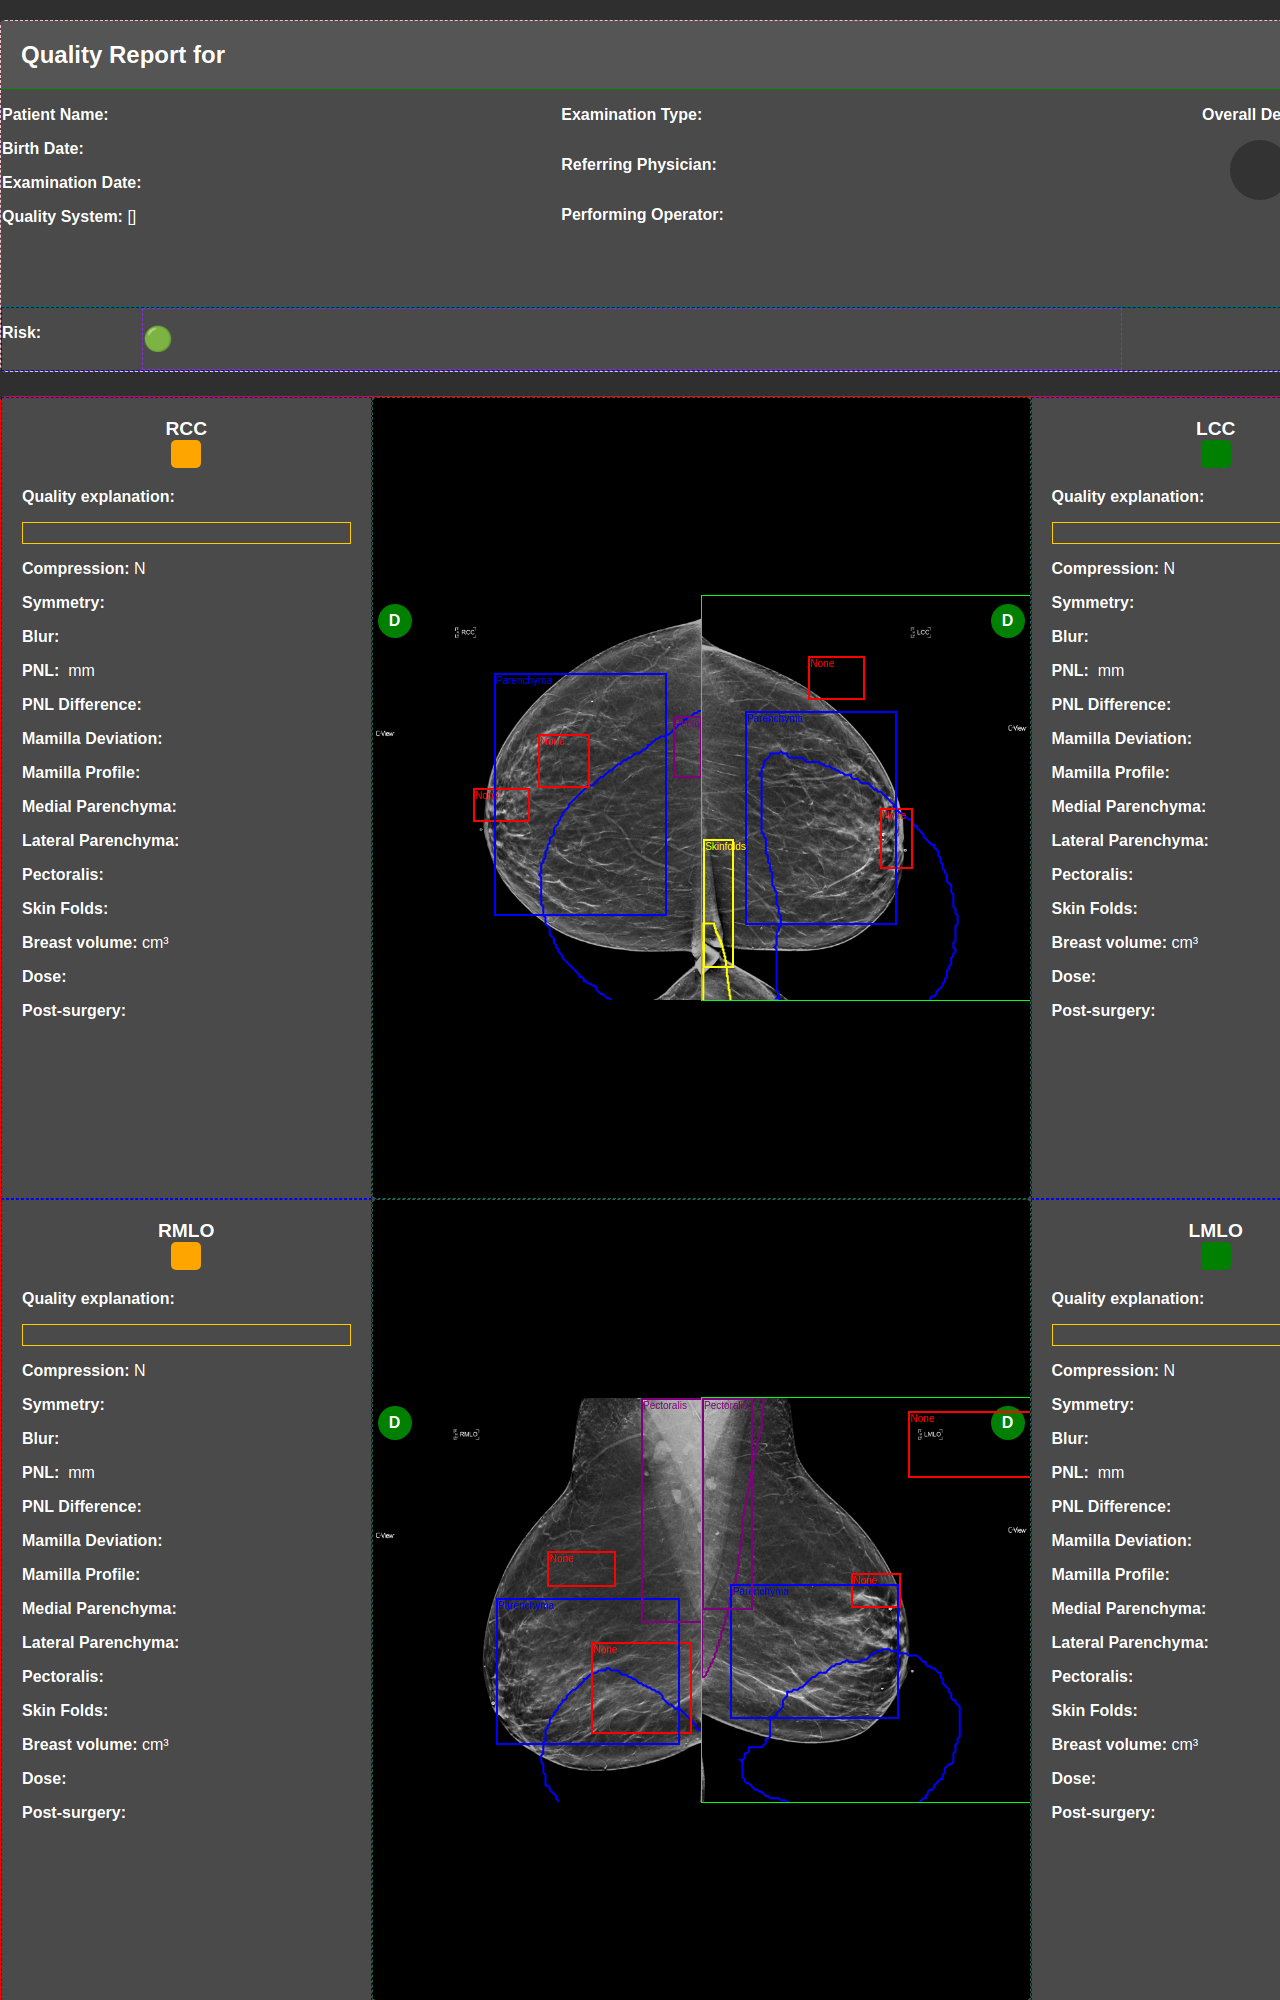
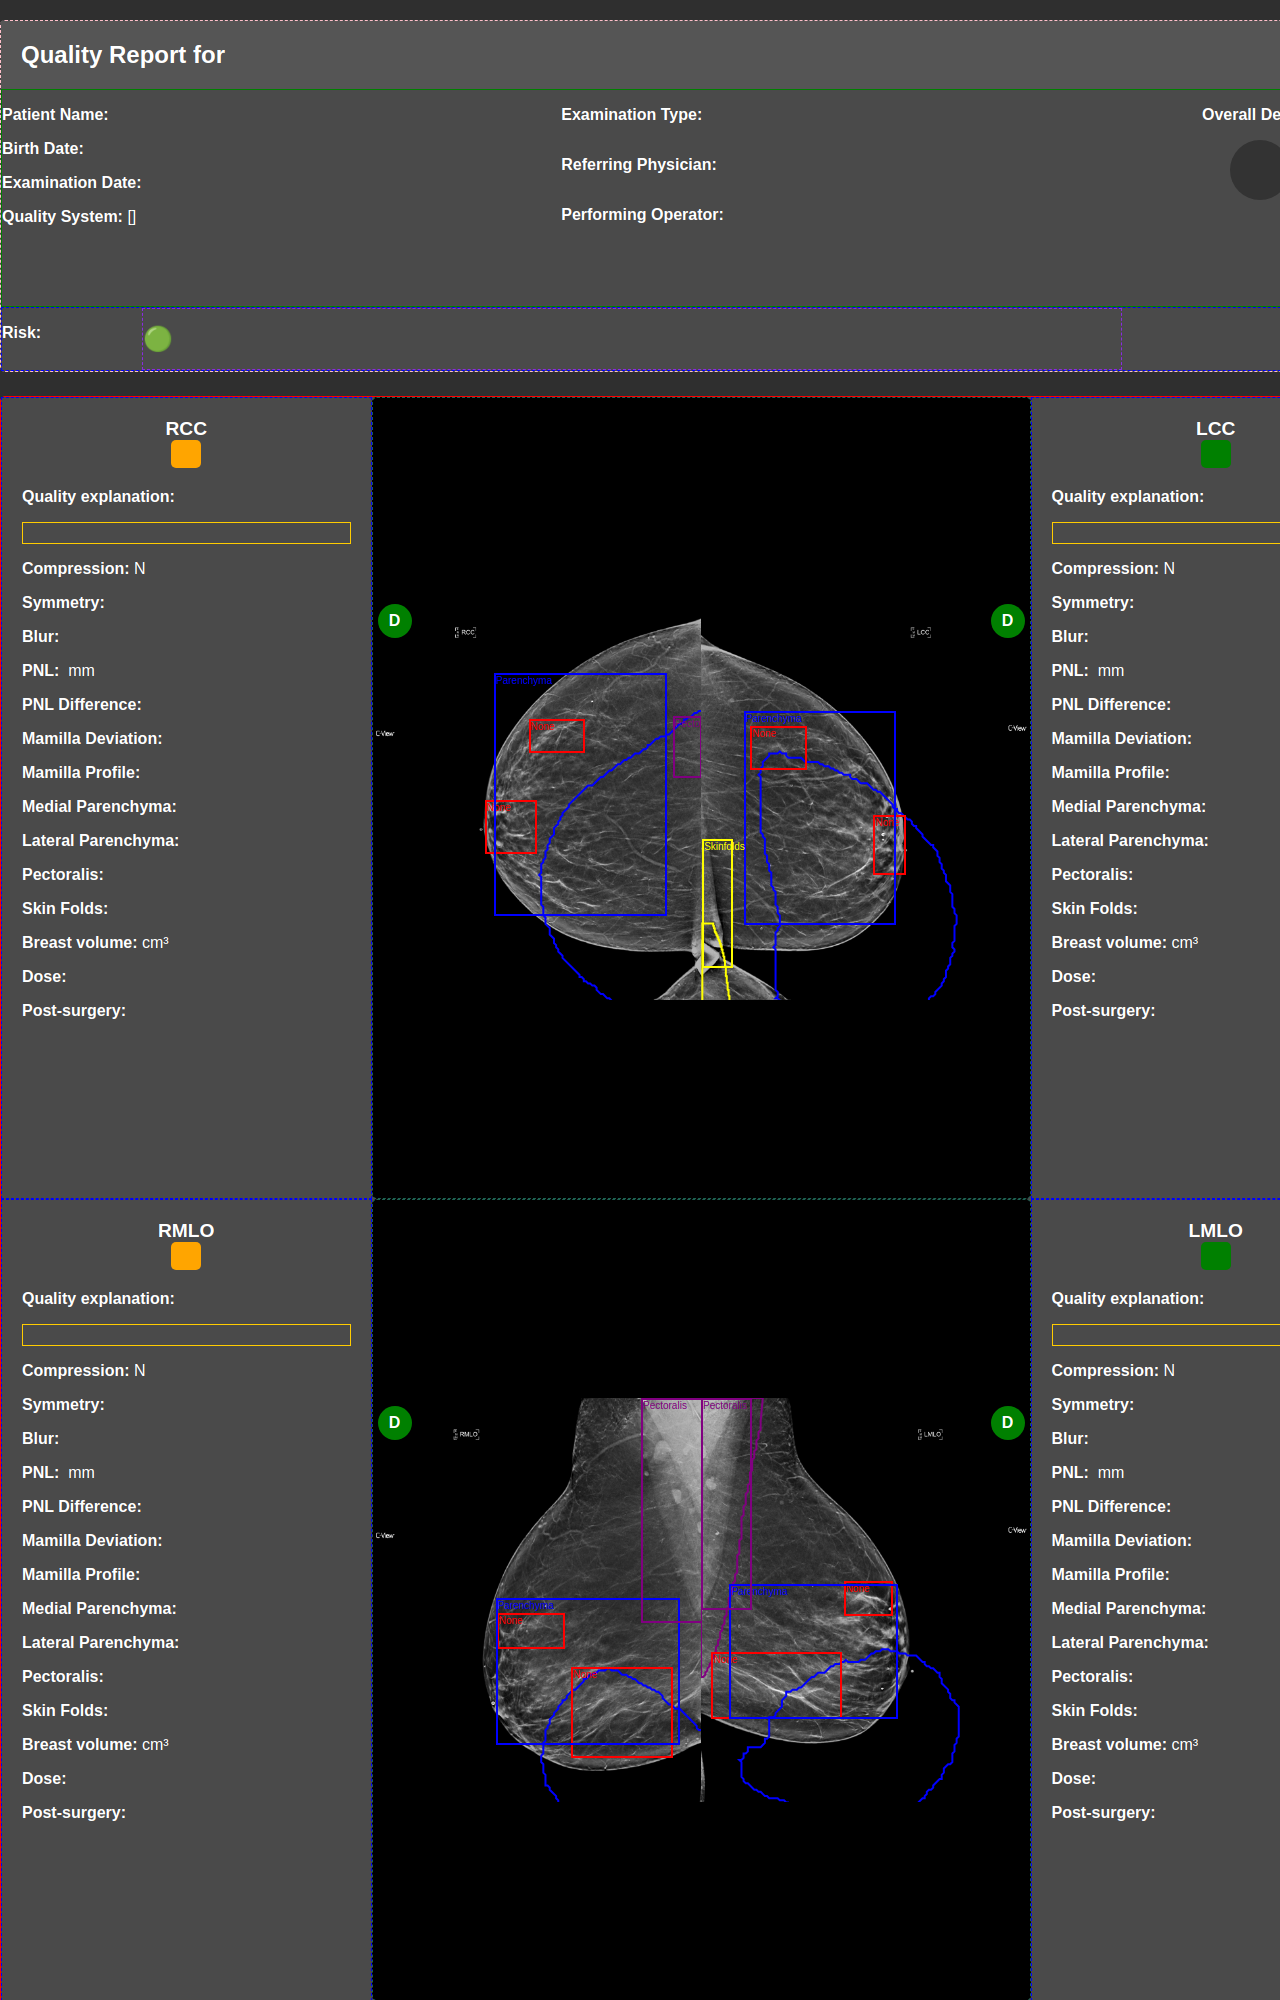
general fixes

diff --git a/templates/report_quality.html b/templates/report_quality.html
@@ -102,12 +102,10 @@
               <p><strong>D</strong></p>
             </div>
             <img src="{{ lcc_proj_img }}" alt="{{ breast_image_alt }}" class="projection_image"/>   
-            <div class="lesion-shapes">
               {{ rectangles_lcc|safe }}
               {{ parenchyma_lcc|safe }}
               {{ pectoralis_lcc|safe }}
               {{ skin_folds_lcc|safe }}
-            </div>            
           </div>
         </div>
 
@@ -188,14 +186,10 @@
               <p><strong>D</strong></p>
             </div>
             <img src="{{ lmlo_proj_img }}" alt="{{ breast_image_alt }}" class="projection_image"/>   
-            <div class="lesion-shapes">
               {{ rectangles_lmlo|safe }}
               {{ parenchyma_lmlo|safe }}
               {{ pectoralis_lmlo|safe }}
-              {{ skin_folds_lmlo|safe }}
-            </div>
-          
-
+              {{ skin_folds_lmlo|safe }}          
           </div>
         </div>
 

diff --git a/static/style.css b/static/style.css
@@ -14,7 +14,6 @@
   background-color: #4a4a4a;
   color: white;
   border-radius: 5px;
-  border: 1px dashed pink;
   height: auto;
   overflow: visible;
 }
@@ -75,7 +74,6 @@
 }
 
 .risk-info {
-  border: 1px dashed blue;
   display: flex;
 }
 
@@ -84,7 +82,6 @@
 }
 
 .risk-details {
-  border: 1px dashed blueviolet;
   width: 70%;
 }
 
@@ -114,7 +111,6 @@
   color: white;
   border-radius: 5px;
   display: flex;
-  border: 1px solid red;
   flex-direction: column;
 }
 
@@ -125,7 +121,6 @@
 }
 
 .quality-section {
-  border: 1px dashed blue;
   width: 25%;
   padding: 20px;
 }
@@ -203,13 +198,6 @@
   align-items: center;
   position: relative;
 }
-.lesion-shapes{
-  border:1px solid rgb(2, 255, 15);
-  width: 100%;
-  height: 100%;
-  position: absolute;
-  z-index: 180;
-}
 
 .projection_image{
   max-width: 100%;
@@ -242,7 +230,6 @@
 .dens-left{
   left: 1px;
 }
-
 
 .values {
   color: white;

diff --git a/my_script.py b/my_script.py
@@ -120,15 +120,14 @@ def get_lesion_div(box, color, border_radius, birads, score, font_size, border_s
     """
     Generate a div for a lesion based on its bounding box and properties.
     """
-    top, left, width, height = box
 
     div = f'''
     <div style="
         position: absolute;
-        top: {top * 100}%;
-        left: {left * 100}%;
-        width: {width * 100}%;
-        height: {height * 100}%;
+        left: {100 * box[0]}%;
+        top: {100 * box[1]}%;
+        width: {100 * box[2]}%;
+        height: {100 * box[3]}%;
         border: 2px {border_style} {color};
         border-radius: {border_radius};
         font-size: {font_size};
@@ -173,7 +172,6 @@ def _get_lesion_shapes(lesion_list, birads_type):
     if not lesion_list:
         return ''
 
-    print(f"DIV: {birads_type}")  # Debugging
     # Define colors for the BI-RADS and other lesion types
     colors = {
         'birads2': 'green',
@@ -198,11 +196,8 @@ def _get_lesion_shapes(lesion_list, birads_type):
         'lesionKnown': 'Known'
     }
 
-    print(f"START LOOP: {lesion_list}")  # Debugging
-
     # Loop through the lesions in the lesion list
     for lesion in lesion_list:
-        print(f"Processing lesion: {lesion}")  # Debugging
         box = lesion.get('box')
         if not box:
             print(f"No box found for lesion {lesion}")
@@ -213,7 +208,7 @@ def _get_lesion_shapes(lesion_list, birads_type):
             box, 
             colors.get(birads_type, 'red'), 
             border_radius, 
-            label_mapping.get(birads_type, 'Unknown'),  # Use label mapping here
+            label_mapping.get(birads_type, 'Unknown'),  
             lesion.get('score'), 
             font_size, 
             border_style, 
